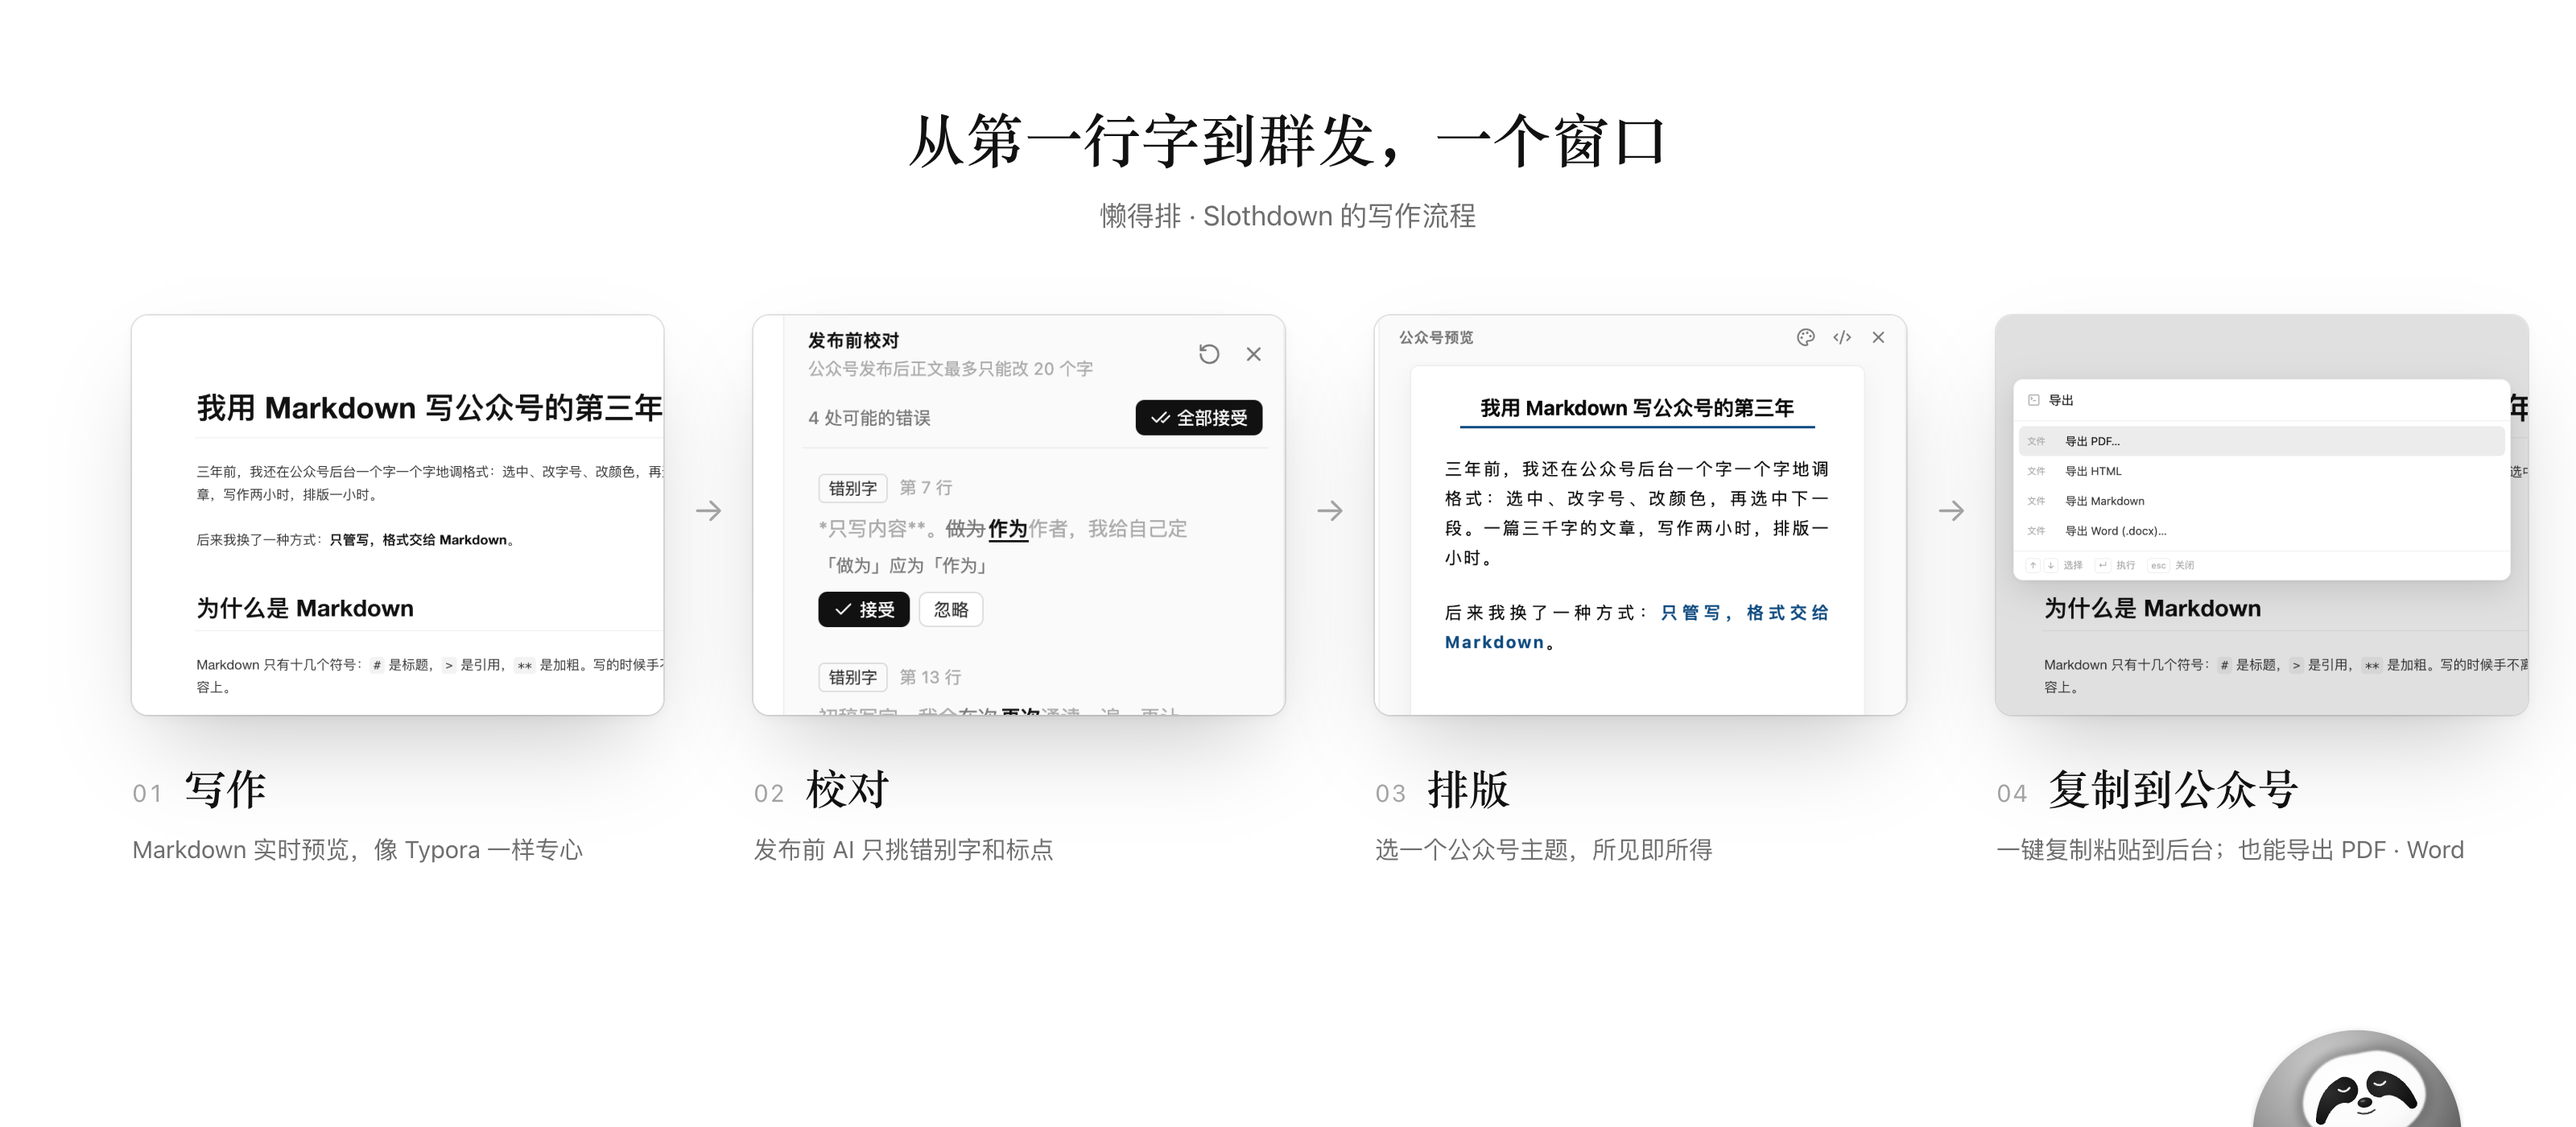
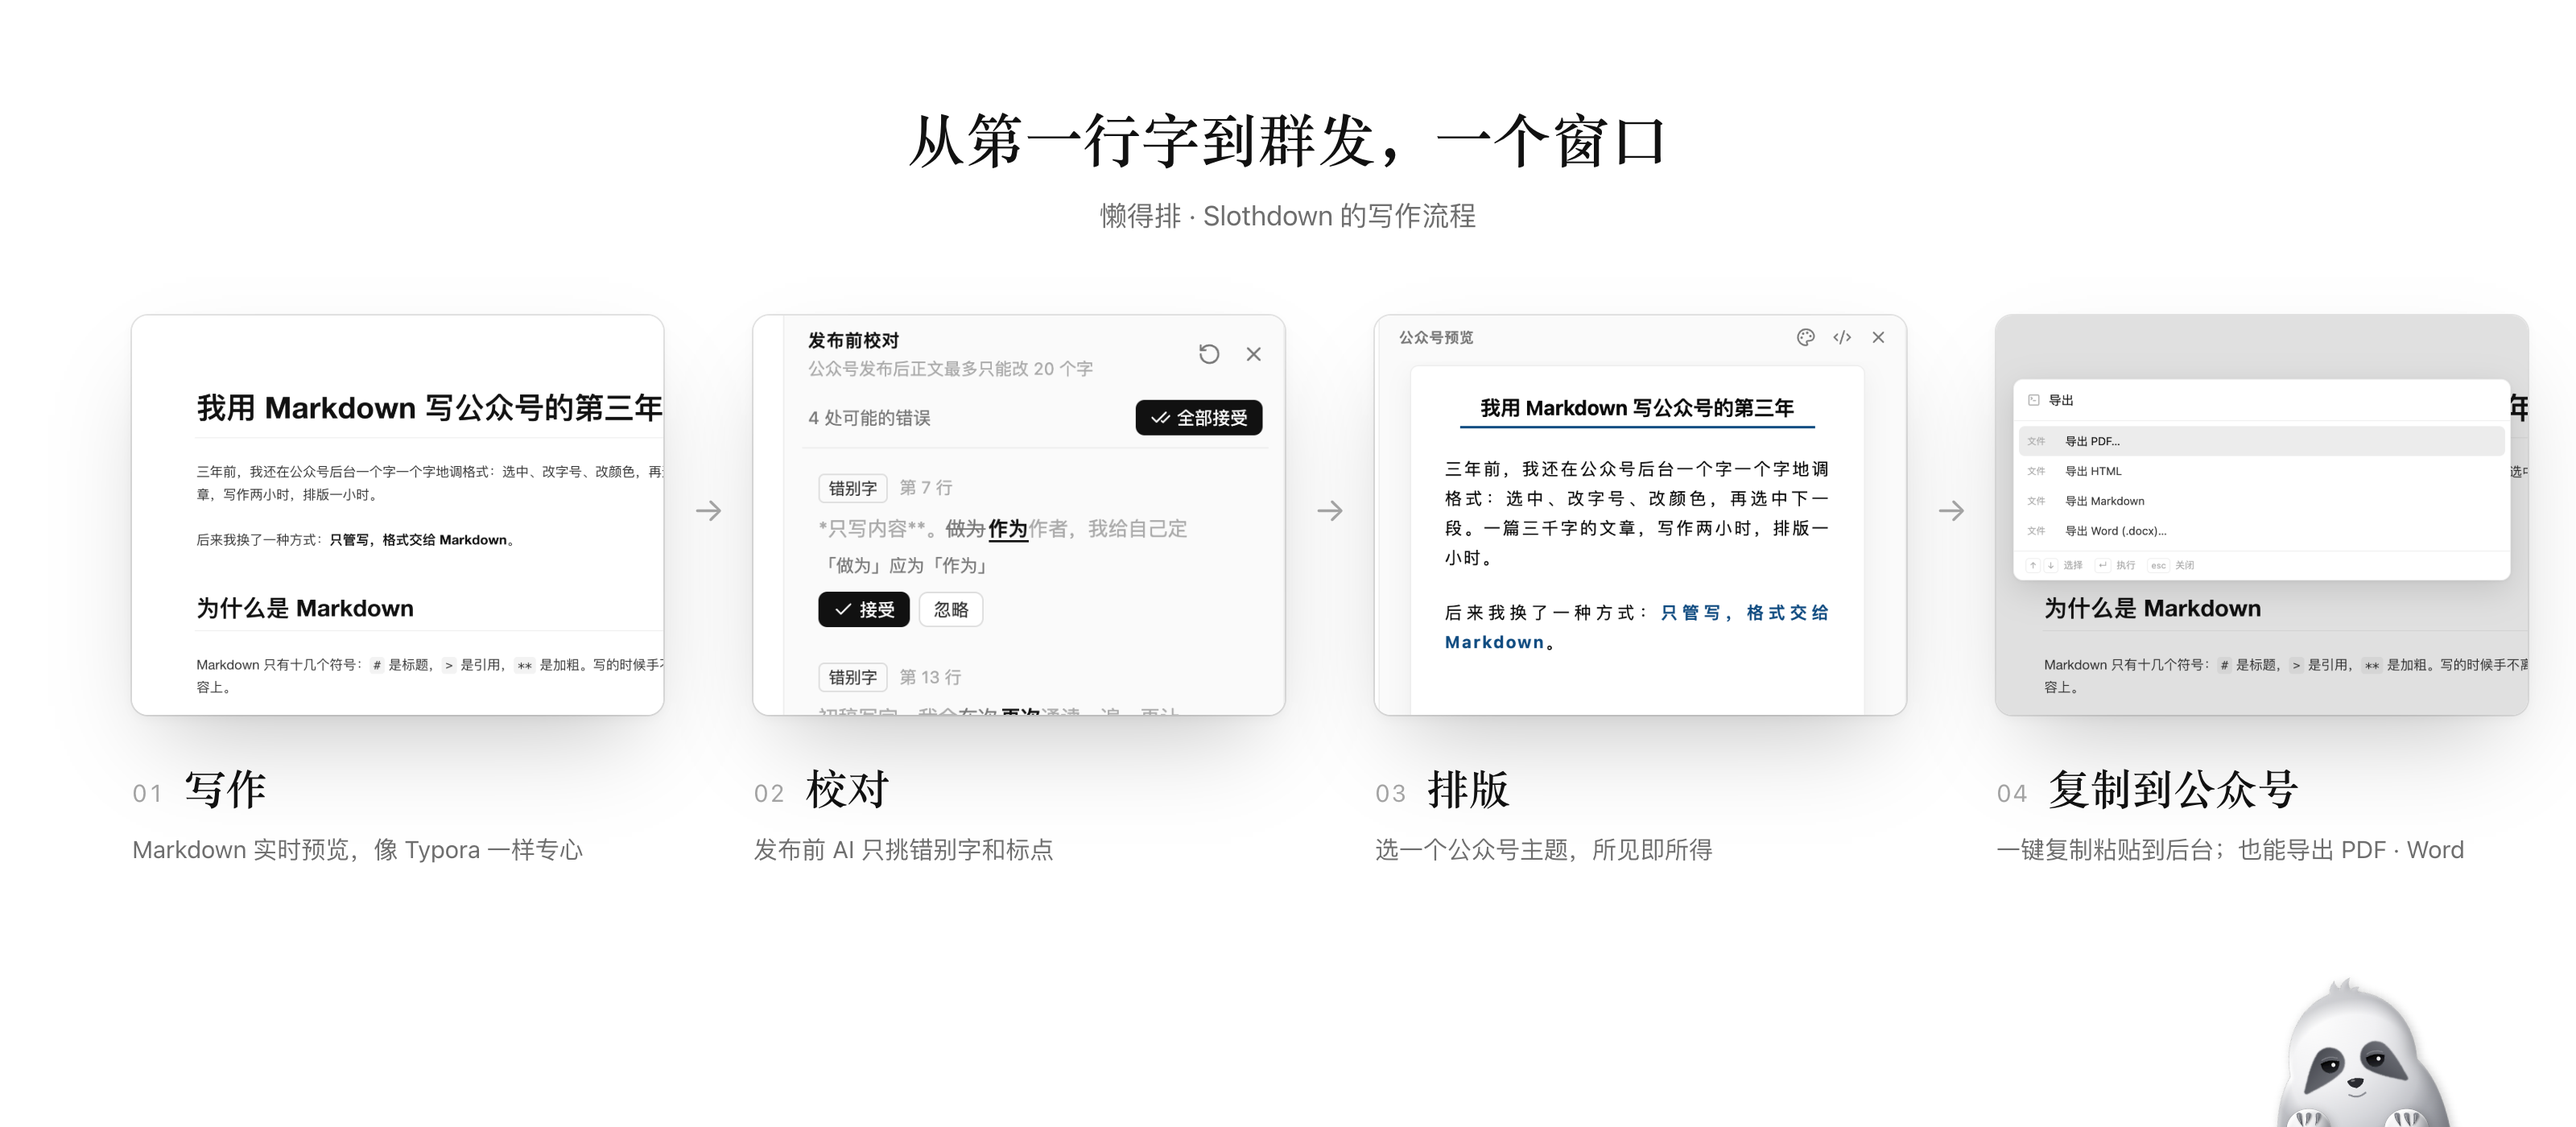
brand: put the family sloth in the marketing images
Banner, social preview, share card, workflow graphic and the 小红书 poster
now show the new sloth rising from an edge with its paws on the ledge; on
the poster it is the star at the bottom right. The contact sheet points at
the new icon sources.

Changed region(s): [[0.875, 0.86, 0.9688, 1.0]]

diff --git a/docs/assets/brand/src/contact-sheet.html b/docs/assets/brand/src/contact-sheet.html
@@ -18,5 +18,5 @@ body{margin:0;font:12px -apple-system,sans-serif;color:#888}
 const sizes=[16,32,64,128,512]
 for (const [id,f] of [['l','../logo-mark.svg'],['d','../logo-mark-dark.svg']])
   document.getElementById(id).innerHTML=sizes.map(s=>`<div><img src="${f}" width="${s}" height="${s}"><div class="cap">${s}</div></div>`).join('')
-document.getElementById('i').innerHTML=[16,32,64,128,256].map(s=>`<div><img src="app-icon-large.svg" width="${s}" height="${s}"><div class="cap">A ${s}</div></div>`).join('')+[16,32,48].map(s=>`<div><img src="app-icon-small.svg" width="${s}" height="${s}"><div class="cap">C ${s}</div></div>`).join('')
+document.getElementById('i').innerHTML=[16,32,64,128,256].map(s=>`<div><img src="app-icon.svg" width="${s}" height="${s}"><div class="cap">${s}</div></div>`).join('')+[16,32,48].map(s=>`<div><img src="app-icon-small.svg" width="${s}" height="${s}"><div class="cap">small ${s}</div></div>`).join('')
 </script></body></html>

diff --git a/docs/assets/brand/src/poster-xhs.html b/docs/assets/brand/src/poster-xhs.html
@@ -15,8 +15,8 @@
   .n { font-size: 22px; color: var(--faint); font-variant-numeric: tabular-nums; letter-spacing: .04em; }
   .t { font-family: var(--font-serif); font-weight: 700; font-size: 32px; }
   .d { grid-column: 2; margin-top: 6px; font-size: 22px; line-height: 1.55; color: var(--muted); }
-  /* the mascot: a big sloth peeking up from the bottom edge */
-  .peek { position: absolute; left: 452px; bottom: 0; width: 660px; }
+  /* the mascot: the family sloth rising from the bottom edge, paws on the ledge (like in the app icon) */
+  .peek { position: absolute; right: -40px; bottom: 0; width: 800px; }
   .say { position: absolute; left: 88px; bottom: 132px; font-family: var(--font-serif); font-weight: 700; font-size: 30px; line-height: 1.5; }
   .url { position: absolute; left: 88px; bottom: 84px; font-size: 20px; color: var(--muted); letter-spacing: .03em; }
 </style></head>

diff --git a/docs/assets/brand/src/social-preview.html b/docs/assets/brand/src/social-preview.html
@@ -7,7 +7,7 @@
   .lockup { position: absolute; left: 50%; top: 60px; transform: translateX(-50%); height: 46px; }
   h1 { position: absolute; left: 0; right: 0; top: 146px; font-size: 44px; line-height: 1.3; }
   .sub { position: absolute; left: 0; right: 0; top: 218px; font-size: 18px; color: var(--muted); letter-spacing: .02em; }
-  .peek { position: absolute; left: 960px; top: 238px; width: 130px; }
+  .peek { position: absolute; left: 968px; top: 211px; width: 140px; z-index: 2; } /* paws resting on the window edge */
   .shot { position: absolute; left: 50%; top: 290px; transform: translateX(-50%); z-index: 1; }
 </style></head>
 <body>

diff --git a/docs/assets/brand/src/banner.html b/docs/assets/brand/src/banner.html
@@ -8,8 +8,8 @@
   .lockup { height: 40px; width: auto; align-self: flex-start; }
   h1 { margin-top: 38px; font-size: 38px; line-height: 1.42; }
   .sub { margin-top: 18px; font-size: 16px; line-height: 1.6; color: var(--muted); }
-  /* the sloth peeks over the top edge of the app window */
-  .peek { position: absolute; left: 1010px; top: 26px; width: 150px; }
+  /* the sloth rises over the top edge of the app window, paws resting on it (as in the app icon) */
+  .peek { position: absolute; left: 1000px; top: 4px; width: 170px; z-index: 2; }
   .shot { position: absolute; left: 676px; top: 100px; z-index: 1; }
 </style></head>
 <body>

diff --git a/docs/assets/brand/src/share-card.html b/docs/assets/brand/src/share-card.html
@@ -10,7 +10,7 @@
   .sub { margin-top: 22px; font-size: 18px; line-height: 1.7; color: var(--muted); }
   .foot { position: absolute; left: 700px; bottom: 44px; font-size: 14px; color: var(--muted); letter-spacing: .04em; }
   /* sloth peeking up from the bottom edge of the card */
-  .peek { position: absolute; right: -14px; bottom: 0; width: 250px; }
+  .peek { position: absolute; right: -36px; bottom: 0; width: 300px; }
   .shot { position: absolute; left: -300px; top: 72px; }
 </style></head>
 <body>

diff --git a/docs/assets/brand/src/workflow.html b/docs/assets/brand/src/workflow.html
@@ -15,7 +15,7 @@
   .n { font-size: 15px; color: var(--faint); letter-spacing: .06em; font-variant-numeric: tabular-nums; }
   .t { font-family: var(--font-serif); font-weight: 700; font-size: 26px; }
   .d { margin-top: 8px; font-size: 15px; line-height: 1.6; color: var(--muted); }
-  .peek { position: absolute; right: 70px; bottom: 0; width: 132px; }
+  .peek { position: absolute; right: 54px; bottom: 0; width: 164px; }
 </style></head>
 <body>
   <header>
